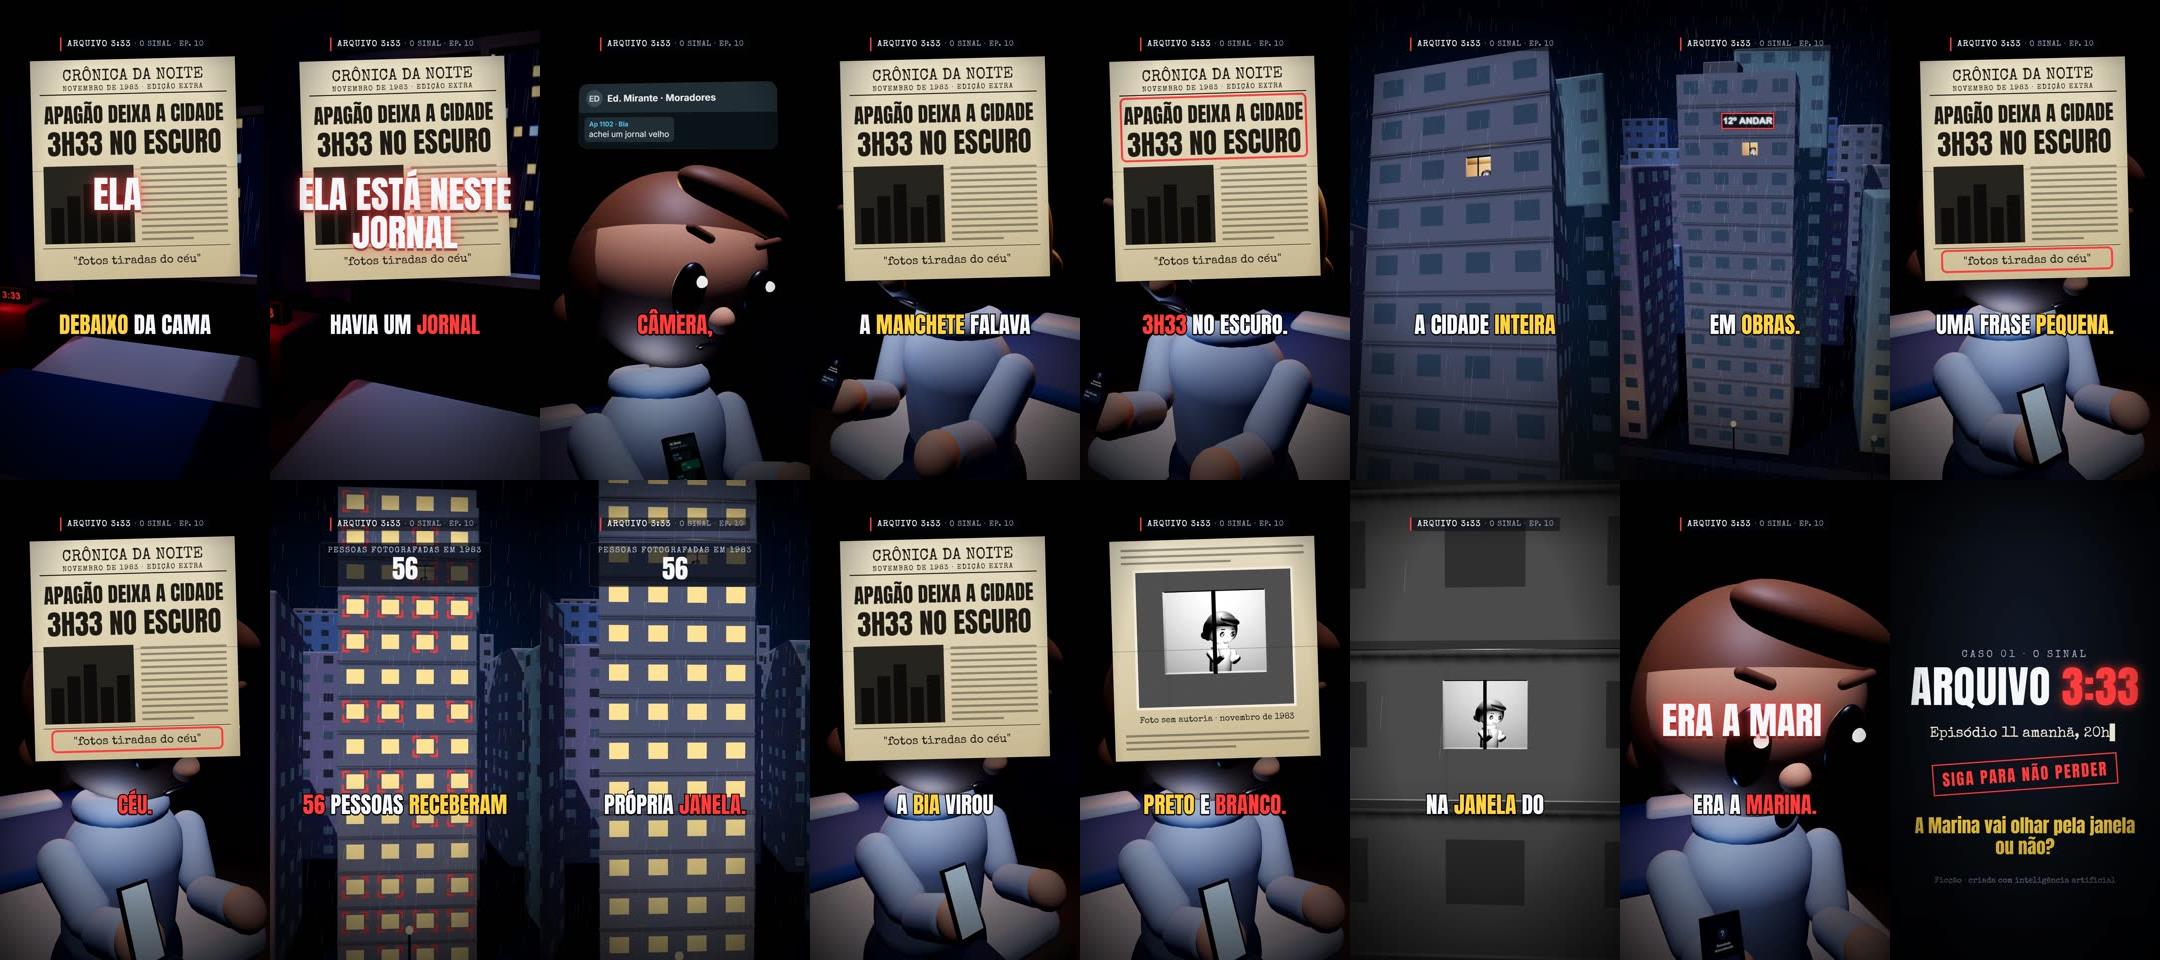
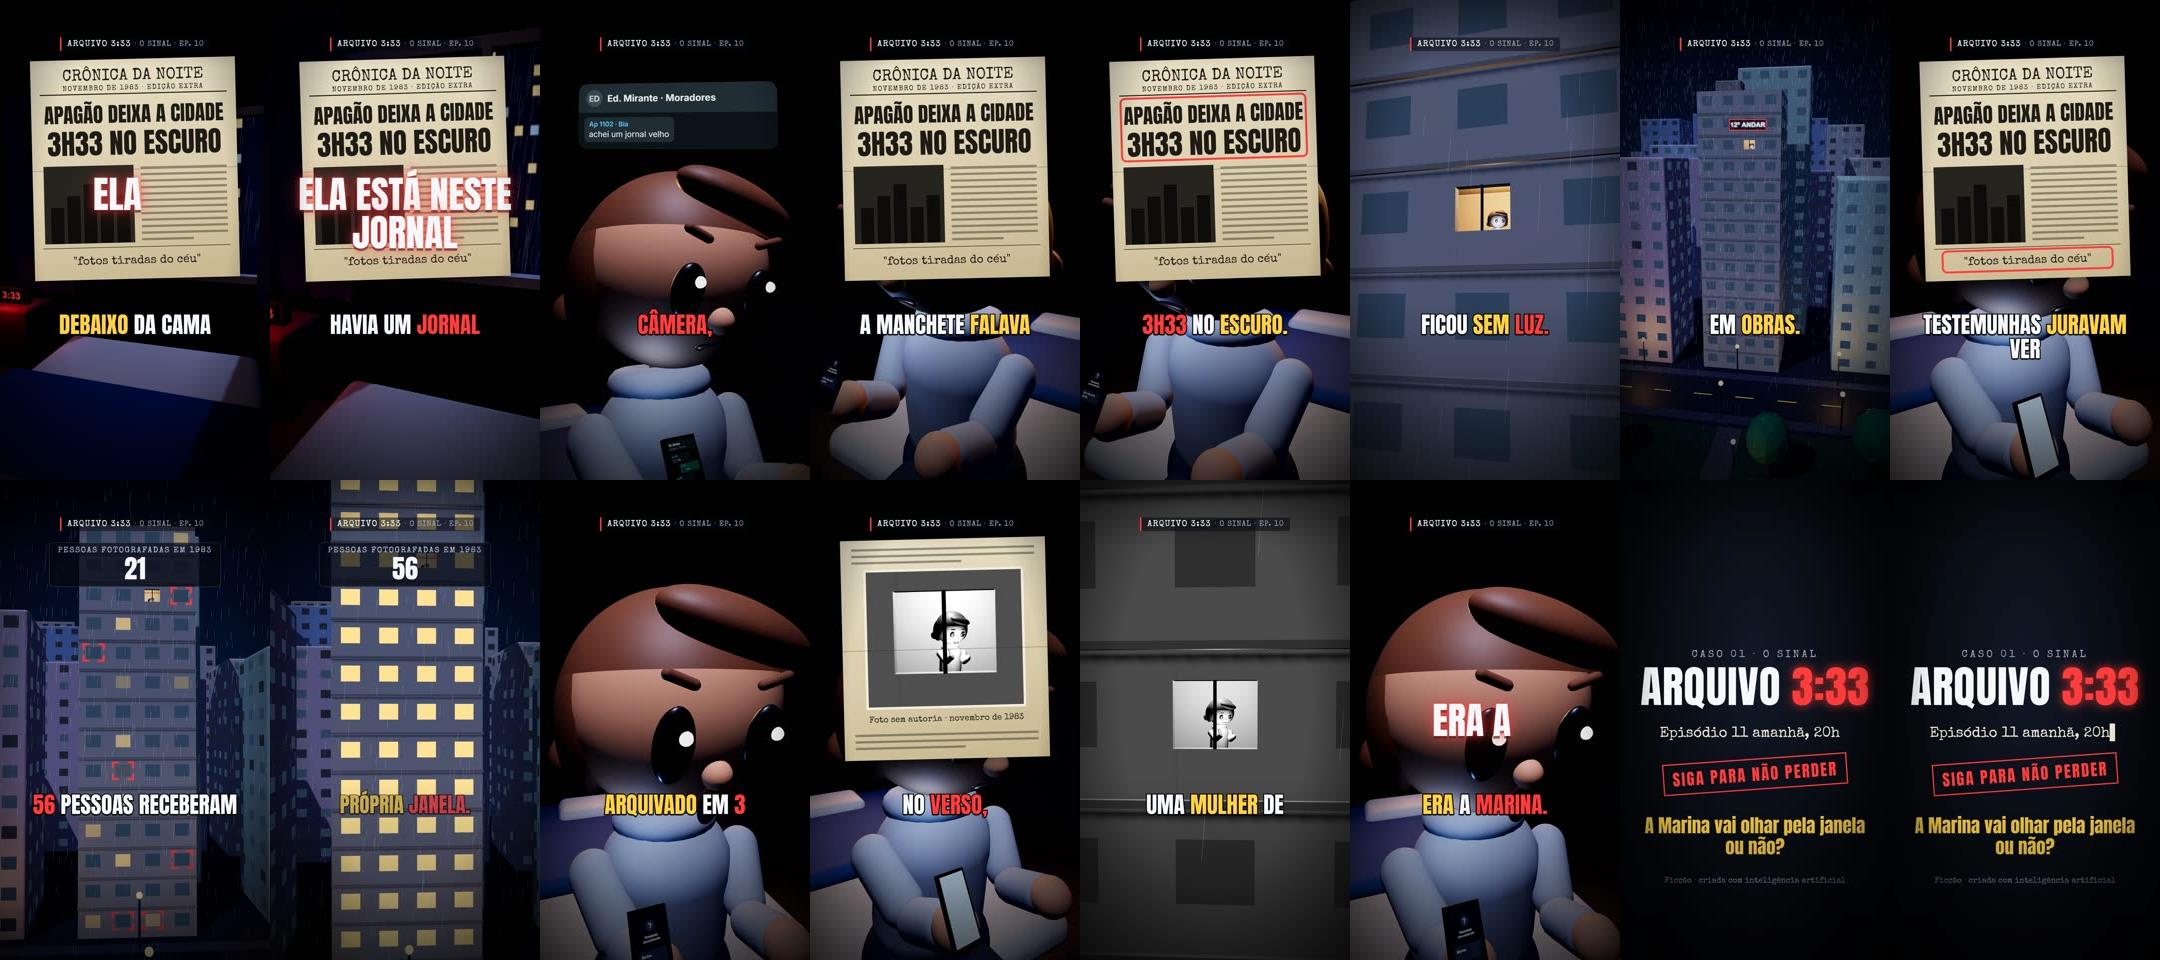
Arquivo 3:33: o narrador fala a pergunta no cartão final (eps. 8 a 10) e a regra na skill

diff --git a/.claude/skills/arquivo-333/SKILL.md b/.claude/skills/arquivo-333/SKILL.md
@@ -14,7 +14,10 @@ O Vito (dono) deu **liberdade total**: não peça aprovação de roteiro, cena n
 
 **Aposta para o público comentar (pedido do Vito, 01/11/2026):** todo episódio termina com uma pergunta sobre o que vai acontecer, ligada à cena ("ela abre a porta ou não?"). É só opinião: o voto não muda a história já escrita.
 - **Onde vai:** logo depois da 1ª linha da legenda (no bloco `publicar`), na seção "Pergunta para fixar" de `publicacao/epNN.md` e, do ep. 8 em diante, no cartão final, com o extra `aposta` na cena `final`.
-- **Sem alongar o fim:** o cartão continua com `segura` de no máximo 0,6 s, e a fala final segue sendo só "Episódio N, amanhã."
+- **O NARRADOR FALA A PERGUNTA (pedido do Vito, 02/11/2026):** "o que mais pega as pessoas é a voz, não só a legenda". Do ep. 8 em diante, a pergunta é falada no cartão final, antes de "Episódio N, amanhã", e também escrita no cartão (extra `aposta`, com `em: 0.2`). Pergunta curta, sim ou não, ligada à cena, com palavras sem risco de acento (veja `referencia/voz.md`).
+  - **Episódio novo:** a fala da cena `final` é um turno só: `"A Marina abre a porta ou não? Episódio onze, amanhã."`, com `semLegenda: true`. O texto do extra `aposta` é igual à pergunta falada.
+  - **Episódio já gravado:** gere só a pergunta (barato, uns 0,3 de crédito por frase) e use `vozAntes` na cena `final`: `{ arquivo, url, textos, indice, pausa }`. O `preparar-caso` encaixa a pergunta antes da fala da cena, sem regerar a narração aprovada (foi assim nos eps. 8 a 10).
+  - **Duração do cartão:** com a pergunta falada, o cartão final dura uns 5 a 6 s (antes, uns 3 s). Mantenha `segura` de no máximo 0,45 s e o episódio abaixo de 58 s.
 
 ## Onde fica cada coisa
 O código está no repositório `vito0067/origem-digital-posts`, pasta `arquivo-333/` (no PC: `Documents\Origem Digital\4-midia\posts-automaticos\arquivo-333`).
@@ -72,7 +75,7 @@ O código está no repositório `vito0067/origem-digital-posts`, pasta `arquivo-
   - conteúdo para crianças (o público é adulto ou geral).
 - **Mistério:** o remetente nunca aparece; ninguém descobre quem é antes do último episódio da série.
 - **Números:** por extenso na fala e em algarismo na legenda.
-- **Fala final:** do ep. 5 em diante, só "Episódio N, amanhã." (ver o item 9 do formato). Até o ep. 4 era "Episódio N, amanhã. Siga o Arquivo três e trinta e três."
+- **Fala final:** do ep. 5 em diante, "Episódio N, amanhã." (ver o item 9 do formato); do ep. 8 em diante, vem depois da pergunta falada ("A Bia entra ou não? Episódio nove, amanhã."). Até o ep. 4 era "Episódio N, amanhã. Siga o Arquivo três e trinta e três."
 - **Segredos:** nunca escreva senha, chave ou token em arquivo nenhum.
 
 ## Como fazer um episódio

diff --git a/.claude/skills/arquivo-333/referencia/motor3d.md b/.claude/skills/arquivo-333/referencia/motor3d.md
@@ -158,7 +158,8 @@
 - **`planta`:** `{ em, ate?, contaEm?, contaFim?, destacaEm? }`, a planta azul do prédio. Sem `contaEm`, mostra todos os andares; com ele, conta um a um; em `destacaEm`, o 13º fica vermelho.
 - **`jornal`:** `{ em, ate?, pronto?, destaca?: "manchete"|"pe", destacaEm?, viraEm?, foto? }`, o jornal de 1983. `pronto` já entra na tela no 1º quadro; `viraEm` vira a página e mostra a `foto` (`cenas/3d/<plano>.png`) no verso.
 - **`textao`:** `{ texto, em, ate, y? }`, a mensagem grande letra por letra. Com `y`, sai do centro para não tapar o que está na tela.
-- **`aposta`:** `{ texto, em }`, a pergunta do episódio em amarelo. Use só no cartão final, com `em` em 0,3 e até 40 caracteres.
+- **`aposta`:** `{ texto, em }`, a pergunta do episódio em amarelo. Use só no cartão final, com `em` em 0,2 e até 40 caracteres. O narrador fala a mesma pergunta (ver `SKILL.md`).
+- **`vozAntes` (campo da cena, não é extra):** `{ arquivo, url, textos, indice, pausa }`. Toca uma pergunta gravada à parte antes da fala da cena e empurra a fala para depois. `arquivo` é uma gravação (mp3) em `public/narracao/` com uma ou mais perguntas separadas por pausa, `textos` são as falas dela em ordem, `indice` diz qual é desta cena e `url` é de onde a nuvem baixa se faltar o arquivo.
 - **Preto e branco:** no visual 3D, `"pb": [0]` deixa em preto e branco os planos com esses índices.
 - **`relampago`:** `{ em }`.
 - **Visuais especiais:**
